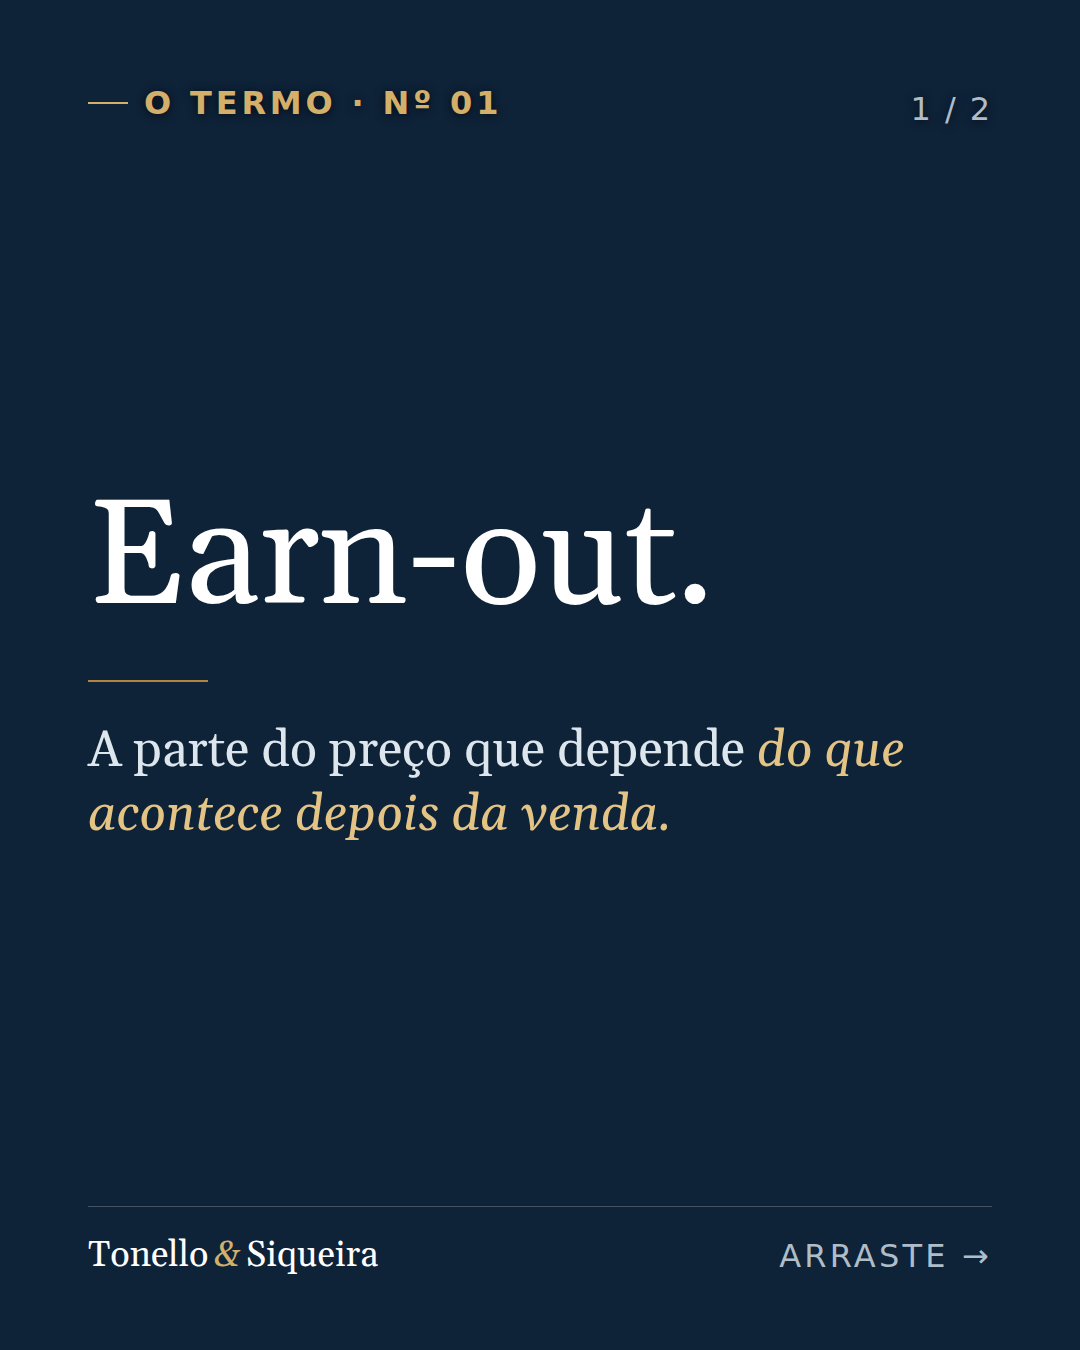
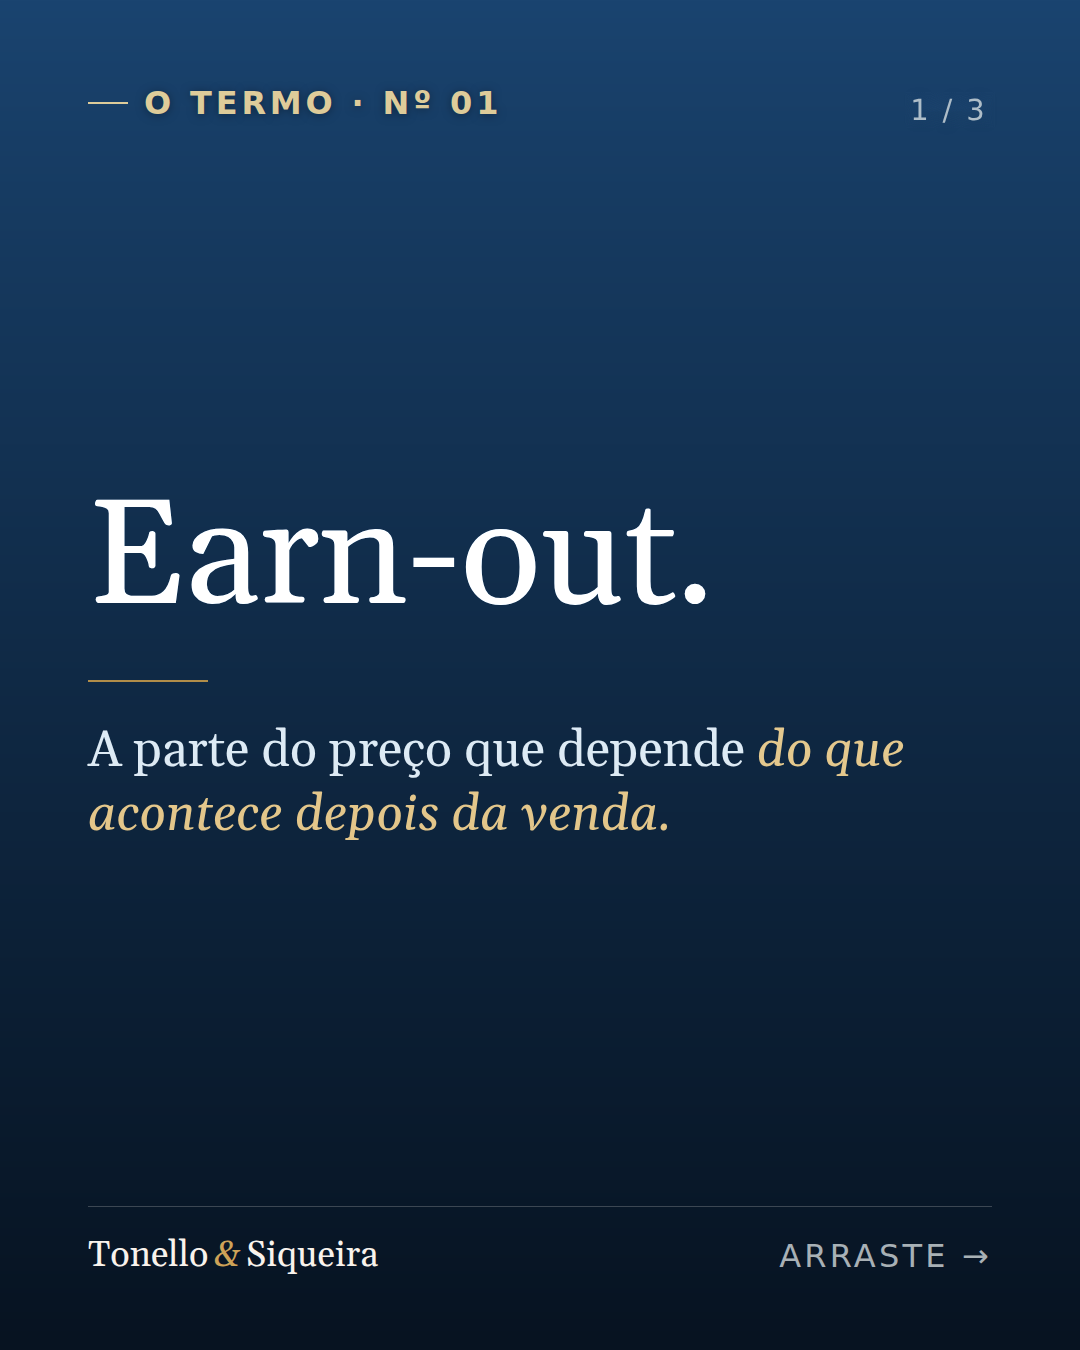
11

diff --git a/README.md b/README.md
@@ -77,37 +77,37 @@ Texto do LinkedIn (padrão desde 16/10/2026, aplicado aos posts 3 a 10): 1.300 a
 
 ## Calendário — tambor (Instagram, posts 11 a 37)
 
-Um post a cada 5 ou 6 dias em dias úteis, às 10:00 (agenda de 02/11/2026; post 7 publicado em 04/11; post 8 não lançado; posts 9 e 10 agendados no Metricool para 12 e 19/11), com rodízio de cinco séries de template fixo e datas comemorativas no dia exato. Recesso de 24/12 a 19/01. Detalhes de séries e templates em `TS-tambor-posts-11-a-37.pdf`.
+Um post por semana, toda quinta-feira às 10:00 (decisão de 13/11/2026, substitui a cadência de 5 a 6 dias de 02/11), com rodízio de cinco séries de template fixo; datas comemorativas no dia exato, podendo haver dois posts na semana. Posts 7 a 10 publicados em 04, 12 (14:00) e 19/11; post 8 não lançado. Recesso de 24/12 a 19/01. Detalhes de séries e templates em `TS-tambor-posts-11-a-37.pdf`.
 
 | # | Data | Série | Post | Pasta |
 |---|------|-------|------|-------|
-| 11 | ter 24/11 | O termo | T1 — earn-out | `11-termo-earn-out` |
-| 12 | seg 30/11 | Antes de responder | A1 — proposta | `12-antes-de-responder-proposta` |
-| 13 | sex 04/12 | Pergunta e resposta | P1 — faturamento | `13-pergunta-faturamento` |
-| 14 | qua 16/12 | Regra da casa | R1 — dois sócios | `14-regra-dois-socios` |
-| 15 | qua 20/01 | Variável | Livro — Steve Jobs | `15-variavel-livro-steve-jobs` |
-| 16 | ter 26/01 | O termo | T2 — data-base | `16-termo-data-base` |
-| 17 | seg 01/02 | Antes de responder | A2 — exclusividade | `17-antes-de-responder-exclusividade` |
-| 18 | sex 05/02 | Pergunta e resposta | P2 — vender parte | `18-pergunta-vender-parte` |
+| 11 | qui 26/11 | O termo | T1 — earn-out | `11-termo-earn-out` |
+| 12 | qui 03/12 | Antes de responder | A1 — proposta | `12-antes-de-responder-proposta` |
+| 13 | qui 10/12 | Pergunta e resposta | P1 — faturamento | `13-pergunta-faturamento` |
+| 14 | qui 17/12 | Regra da casa | R1 — dois sócios | `14-regra-dois-socios` |
+| 15 | qui 21/01 | Variável | Livro — Steve Jobs | `15-variavel-livro-steve-jobs` |
+| 16 | qui 28/01 | O termo | T2 — data-base | `16-termo-data-base` |
+| 17 | qui 04/02 | Antes de responder | A2 — exclusividade | `17-antes-de-responder-exclusividade` |
+| 18 | qui 11/02 | Pergunta e resposta | P2 — vender parte | `18-pergunta-vender-parte` |
 | 19 | qua 09/12 | Data comemorativa | Dia contra a Corrupção | `19-data-dia-contra-corrupcao` |
-| 20 | qui 11/02 | Regra da casa | R2 — três abordagens | `20-regra-tres-abordagens` |
-| 21 | qua 17/02 | Variável | Livro — Abel Ferreira | `21-variavel-livro-abel-ferreira` |
-| 22 | ter 23/02 | O termo | T3 — dívida líquida | `22-termo-divida-liquida` |
-| 23 | seg 01/03 | Antes de responder | A3 — balanços | `23-antes-de-responder-balancos` |
+| 20 | qui 18/02 | Regra da casa | R2 — três abordagens | `20-regra-tres-abordagens` |
+| 21 | qui 25/02 | Variável | Livro — Abel Ferreira | `21-variavel-livro-abel-ferreira` |
+| 22 | qui 04/03 | O termo | T3 — dívida líquida | `22-termo-divida-liquida` |
+| 23 | qui 11/03 | Antes de responder | A3 — balanços | `23-antes-de-responder-balancos` |
 | 24 | qua 23/12 | Data comemorativa | Boas festas | `24-data-boas-festas` |
-| 25 | sex 05/03 | Pergunta e resposta | P3 — o laudo garante? | `25-pergunta-laudo-garante` |
-| 26 | qui 11/03 | Regra da casa | R3 — segundo caminho | `26-regra-segundo-caminho` |
-| 27 | qua 17/03 | Variável | Livro — Elon Musk | `27-variavel-livro-elon-musk` |
-| 28 | ter 23/03 | O termo | T4 — capital de giro | `28-termo-capital-de-giro` |
-| 29 | seg 29/03 | Antes de responder | A4 — investidor | `29-antes-de-responder-investidor` |
-| 30 | sex 02/04 | Pergunta e resposta | P4 — funcionários | `30-pergunta-funcionarios` |
-| 31 | qui 08/04 | Regra da casa | R4 — preço piso | `31-regra-preco-piso` |
-| 32 | qua 14/04 | Variável | vaga em aberto (vídeo ou livro) | `32-variavel-vazio` |
-| 33 | ter 20/04 | O termo | T5 — retenção | `33-termo-retencao` |
-| 34 | seg 26/04 | Antes de responder | A5 — clientes | `34-antes-de-responder-clientes` |
-| 35 | sex 30/04 | Pergunta e resposta | P5 — depende de mim? | `35-pergunta-depende-de-mim` |
-| 36 | qui 06/05 | Regra da casa | R5 — sinergias | `36-regra-sinergias` |
-| 37 | qua 12/05 | Variável | vaga em aberto (vídeo ou livro) | `37-variavel-vazio` |
+| 25 | qui 18/03 | Pergunta e resposta | P3 — o laudo garante? | `25-pergunta-laudo-garante` |
+| 26 | qui 25/03 | Regra da casa | R3 — segundo caminho | `26-regra-segundo-caminho` |
+| 27 | qui 01/04 | Variável | Livro — Elon Musk | `27-variavel-livro-elon-musk` |
+| 28 | qui 08/04 | O termo | T4 — capital de giro | `28-termo-capital-de-giro` |
+| 29 | qui 15/04 | Antes de responder | A4 — investidor | `29-antes-de-responder-investidor` |
+| 30 | qui 22/04 | Pergunta e resposta | P4 — funcionários | `30-pergunta-funcionarios` |
+| 31 | qui 29/04 | Regra da casa | R4 — preço piso | `31-regra-preco-piso` |
+| 32 | qui 06/05 | Variável | vaga em aberto (vídeo ou livro) | `32-variavel-vazio` |
+| 33 | qui 13/05 | O termo | T5 — retenção | `33-termo-retencao` |
+| 34 | qui 20/05 | Antes de responder | A5 — clientes | `34-antes-de-responder-clientes` |
+| 35 | qui 27/05 (Corpus Christi — a decidir) | Pergunta e resposta | P5 — depende de mim? | `35-pergunta-depende-de-mim` |
+| 36 | qui 03/06 | Regra da casa | R5 — sinergias | `36-regra-sinergias` |
+| 37 | qui 10/06 | Variável | vaga em aberto (vídeo ou livro) | `37-variavel-vazio` |
 
 Séries: **O termo** (azul + branca, sem foto) · **Antes de responder** (capa com foto do sócio + branca) · **Pergunta e resposta** (azul + branca, sem foto) · **Regra da casa** (foto em coluna + branca) · **Variável** (tela única azul: livro, notícia ou vídeo; vídeos podem ocupar as vagas da série). Pastas de série: `post-01.png`, `post-02.png`, `legenda.txt`; livro e data comemorativa: `post-01.png`, `legenda.txt`, `CREDITOS.txt`.
 
